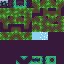
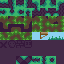
Hmm

diff --git a/Totem/GameObjects/Player/Player.cpp b/Totem/GameObjects/Player/Player.cpp
@@ -33,10 +33,12 @@ Player::Player(vector2d* p, vector2d* s, SDL_Texture* texture, bool hasCol) :
     blocks.push_back(some_TotemBlock3);
     blocks.push_back(some_TotemBlock4);
     grounded = false;
-//    if (hasCol) {
+    if (hasCol) {
+        checkCol = new Collider(position, new vector2d(4, 4), this);
+        Collisions::AddCollider(col);
 //        col->bounds.w = 64;
 //        col->bounds.h = 64;
-//    }
+    }
 }
 
 Player::~Player(){
@@ -52,9 +54,10 @@ void Player::swapBlockUp() {
         }
         if (blocks.at(i)->blockInt == 1) {
             blocks.at(i)->blockInt -= 1;
-            position->y -=68;
-            blocks.at(i)->position->y += 60;
+            position->y -=78;
+            blocks.at(i)->position->y += 64;
             blocks.at(i)->id = "Deactivated";
+            extraCheck = false;
         }
             blocks.at(i)->blockInt -= 1;
     }
@@ -76,7 +79,13 @@ void Player::swapBlockDown(int block) {
 }
 void Player::update(double deltaTime){
     //std::cout << std::endl << Input::key_D;
+    if (extraCheck == false) {
+        grounded = false;
+    }
+    if (!grounded) {
         velocity->y += 0.025 * deltaTime;
+    }
+    
     if (velocity->y >= 5) {
         velocity->y = 5;
     }
@@ -89,16 +98,25 @@ void Player::update(double deltaTime){
         position->x -= 0.15 * deltaTime;
     }
     if (Input::key_W == Input::PRESSED && grounded) {
+        grounded = false;
         velocity->y = -8.25;
     }
     if (Input::key_P == Input::PRESSED) {
         swapBlockUp();
     }
-    
-    grounded = false;
+    /*if (grounded && extraCheck)*/ cout << endl<< grounded << " : " << extraCheck;
+    extraCheck = false;
+    //cout << endl << extraCheck;
     if (col != NULL) {
         col->setPosition(position);
+        
+        vector2d* somevec = new vector2d(0,0);
+        somevec->x = position->x + 6 * 4;
+        somevec->y = position->y + 64;
+        checkCol->setPosition(somevec);
+        delete somevec;
     }
+    Collisions::CheckCollision(checkCol);
     Collisions::CheckCollision(col);
     position->y += velocity->y * 0.1 * deltaTime;
 }
@@ -107,26 +125,42 @@ void Player::onCollision(GameObject* otherObj){
     if (otherObj->id == "TotemBlock") {
         return;
     }
+    if (SDL_HasIntersection(&(checkCol->bounds), &(otherObj->col->bounds))) {
+        cout << " : " << "HMMM";
+        extraCheck = true;
+        if (otherObj->id == "Deactivated" && grounded && Input::key_O == Input::PRESSED) {
+            grounded = false;
+            swapBlockDown(static_cast<TotemBlock*>(otherObj)->blockInt);
+        }
+    }
+    if (!SDL_HasIntersection(&(col->bounds), &(otherObj->col->bounds))) {
+        return;
+    }
     if (otherObj->id != "player" && otherObj->id != "TotemBlock") {
         SDL_Rect intersection;
+        double someint = 0;
+        //if (otherObj->id == "Deactivated") someint = 0.5;
         SDL_IntersectRect(&(this->col->bounds), &(otherObj->col->bounds), &intersection);
-        if (intersection.h < intersection.w) {
+        if (intersection.h + 4 < intersection.w) {
             velocity->y = 0;
+            if (extraCheck) {
+                velocity->y = 0;
+            }
             if (position->y > otherObj->position->y) {
-                position->y = otherObj->position->y - 64 + otherObj->col->bounds.y;
+                position->y = otherObj->position->y + otherObj->size->y * 4;
+                otherObj->position->y -= someint;
             } else {
                 grounded = true;
                 position->y = otherObj->position->y - 64;
-                if (otherObj->id == "Deactivated" && Input::key_O == Input::PRESSED && intersection.w > 50) {
-                    swapBlockDown(static_cast<TotemBlock*>(otherObj)->blockInt);
-                }
+                otherObj->position->y += someint;
             }
         } else {
             if (position->x > otherObj->position->x) {
-                std:: cout << std::endl << otherObj->size->x;;
                 position->x = otherObj->position->x + otherObj->size->x * 4;// + otherObj->size->x;
+                otherObj->position->x -= someint;
             } else {
                 position->x = otherObj->position->x- 64;
+                otherObj->position->x += someint;
             }
         }
     }

diff --git a/Totem/GameObjects/Player/TotemBlock.cpp b/Totem/GameObjects/Player/TotemBlock.cpp
@@ -20,6 +20,8 @@ TotemBlock::TotemBlock(vector2d* p, vector2d* s, SDL_Texture* texture, bool hasC
     id = "TotemBlock";
     velocity = new vector2d(0,0);
     grounded = true;
+    checkCol = new Collider(position, new vector2d(32, 32), this);
+    Collisions::AddCollider(col);
 }
 TotemBlock::~TotemBlock() {
     delete velocity;
@@ -29,6 +31,12 @@ void TotemBlock::draw() {
 }
 void TotemBlock::onCollision(GameObject* otherObj) {
     if (otherObj->id == "Player") {
+        return;
+    }
+    if (SDL_HasIntersection(&(checkCol->bounds), &(otherObj->col->bounds))) {
+        extraCheck = true;
+    }
+    if (!SDL_HasIntersection(&(col->bounds), &(otherObj->col->bounds))) {
         return;
     }
     if (id == "TotemBlock") {
@@ -42,7 +50,7 @@ void TotemBlock::onCollision(GameObject* otherObj) {
             if (intersection.h < intersection.w) {
                 player->velocity->y = 0;
                 if (position->y > otherObj->position->y) {
-                    changes.y = otherObj->position->y + 64 - position->y;
+                    changes.y = otherObj->position->y + otherObj->size->y * 4- position->y;
                 } else {
                     player->velocity->y = 0;
                     changes.y = otherObj->position->y - 64 - position->y;
@@ -66,18 +74,23 @@ void TotemBlock::onCollision(GameObject* otherObj) {
         if (intersection.h < intersection.w) {
             velocity->y = 0;
             if (position->y > otherObj->position->y) {
-                position->y = otherObj->position->y + 64;
+                position->y = otherObj->position->y + otherObj->size->y * 4;
             } else {
                 grounded = true;
                 position->y = otherObj->position->y - 64;
             }
         } else {
             if (position->x > otherObj->position->x) {
+                //position->x = otherObj->position->x + otherObj->size->x * 4;
                 position->x = otherObj->position->x + otherObj->size->x * 4;
             } else {
                 position->x = otherObj->position->x- 64;
             }
         }
+    }
+    if (SDL_HasIntersection(&(checkCol->bounds), &(otherObj->col->bounds))) {
+        extraCheck = true;
+        return;
     }
 }
 void TotemBlock::update(double deltaTime) {
@@ -85,6 +98,9 @@ void TotemBlock::update(double deltaTime) {
         position->x = player->position->x;
         position->y = player->position->y - blockInt * 64;
     } else if (blockInt <= -1) {
+        if (extraCheck == false) {
+            grounded = false;
+        }
         if (!grounded) {
             velocity->y += 0.025 * deltaTime;
         }
@@ -93,11 +109,14 @@ void TotemBlock::update(double deltaTime) {
         }
         
     }
-    if (id == "TotemBlock") {
-        grounded = false;
-    }
+        extraCheck = false;
     if (col != NULL) {
         col->setPosition(position);
+        vector2d* somevec = new vector2d(0,0);
+        somevec->x = position->x + 16;
+        somevec->y = position->y + 40;
+        checkCol->setPosition(somevec);
+        delete somevec;
     }
     Collisions::CheckCollision(col);
     position->y += velocity->y * 0.1 * deltaTime;

diff --git a/Totem/main.cpp b/Totem/main.cpp
@@ -42,7 +42,7 @@ int main(int argc, char* args[])
       SDL_WINDOWPOS_CENTERED,
       SDL_WINDOWPOS_CENTERED,
       Width, Height, SDL_WINDOW_SHOWN);
-      SDL_SetWindowFullscreen(gWindow, SDL_WINDOW_FULLSCREEN_DESKTOP);
+      //SDL_SetWindowFullscreen(gWindow, SDL_WINDOW_FULLSCREEN_DESKTOP);
 
     if (gWindow != 0) {
       gRenderer = SDL_CreateRenderer(gWindow, -1, 0);
@@ -55,11 +55,10 @@ int main(int argc, char* args[])
     SDL_Texture* ground_tex = load_tex("Assets/TileTest.png");
     SDL_Texture* stanPot = load_tex("Assets/StanPot.png");
     GameObjectLoader::setTextures();
-
-    Player* Hutspot = new Player(new vector2d(300,64), new vector2d(16,16), player_tex, true);
-    
     Map* some_map = new Map("LevelSystem/CreatingLevels/Totem.json");
     some_map->createMap();
+
+    Player* Hutspot = new Player(new vector2d(300,64), new vector2d(16,16), player_tex, true);
     
     SceneManager::objList.push_back(Hutspot);
     

diff --git a/Totem/Collision/Collider.hpp b/Totem/Collision/Collider.hpp
@@ -12,15 +12,18 @@
 #include "vars.hpp"
 #include "GameObject.hpp"
 #include <stdio.h>
+#include <string>
 class GameObject;
 
 class Collider {
   public:
     Collider();
     Collider(vector2d* p, vector2d* s, GameObject* o);
+    Collider(vector2d* p, vector2d* s, GameObject* o, std::string i);
     ~Collider();
     SDL_Rect bounds;
     GameObject* obj;
+    std::string id;
     void setPosition(vector2d* p);
     bool operator==(const Collider& c) const;
   private:

diff --git a/Totem/Collision/Collider.cpp b/Totem/Collision/Collider.cpp
@@ -25,6 +25,14 @@ Collider::Collider(vector2d* p, vector2d* s, GameObject* o){
     bounds.h = s->y * 4;
     obj = o;
 }
+Collider::Collider(vector2d* p, vector2d* s, GameObject* o, std::string i){
+    bounds.x = p->x;
+    bounds.y = p->y;
+    bounds.w = s->x * 4;
+    bounds.h = s->y * 4;
+    obj = o;
+    id = i;
+}
 Collider::~Collider() {
 }
 void Collider::setPosition(vector2d* p) {

diff --git a/Totem/GameObjects/Tiles/TileObject.cpp b/Totem/GameObjects/Tiles/TileObject.cpp
@@ -34,7 +34,7 @@ TileObject::~TileObject() {
     
 }
 void TileObject::draw() {
-    SDL_SetRenderDrawColor(gRenderer, 54, 25, 59, 255);
+    SDL_SetRenderDrawColor(gRenderer, 68, 43, 72, 255);
     //SDL_RenderClear(gRenderer);
     SDL_Rect some_rect;
     some_rect.x = position->x;

diff --git a/Totem/GameObject.cpp b/Totem/GameObject.cpp
@@ -48,7 +48,7 @@ GameObject::~GameObject(){
 }
 
 void GameObject::draw(){
-    SDL_SetRenderDrawColor(gRenderer, 54, 25, 59, 255);
+    SDL_SetRenderDrawColor(gRenderer, 68, 43, 72, 255);
     //SDL_RenderClear(gRenderer);
     SDL_Rect some_rect;
     some_rect.x = position->x;

diff --git a/Totem/UI System/UIObject/UIObject.cpp b/Totem/UI System/UIObject/UIObject.cpp
@@ -29,7 +29,7 @@ UIObject::~UIObject(){
 }
 
 void UIObject::draw(){
-    SDL_SetRenderDrawColor(gRenderer, 54, 25, 59, 255);
+    SDL_SetRenderDrawColor(gRenderer, 68, 43, 72, 255);
     //SDL_RenderClear(gRenderer);
     SDL_Rect some_rect;
     some_rect.x = position->x;

diff --git a/Totem/GameObjects/Player/Player.hpp b/Totem/GameObjects/Player/Player.hpp
@@ -26,8 +26,10 @@ class Player : public GameObject {
     int current_block;
     void swapBlockUp();
     void swapBlockDown(int block);
+    Collider* checkCol;
   private:
     bool grounded;
+    bool extraCheck;
 };
 
 #endif /* Player_hpp */

diff --git a/Totem/GameObjects/Player/TotemBlock.hpp b/Totem/GameObjects/Player/TotemBlock.hpp
@@ -24,7 +24,9 @@ class TotemBlock : public GameObject {
     Player* player;
     vector2d* velocity;
     int blockInt;
+    Collider* checkCol;
   private:
     bool grounded;
+    bool extraCheck;
 };
 #endif /* TotemBlock_hpp */
